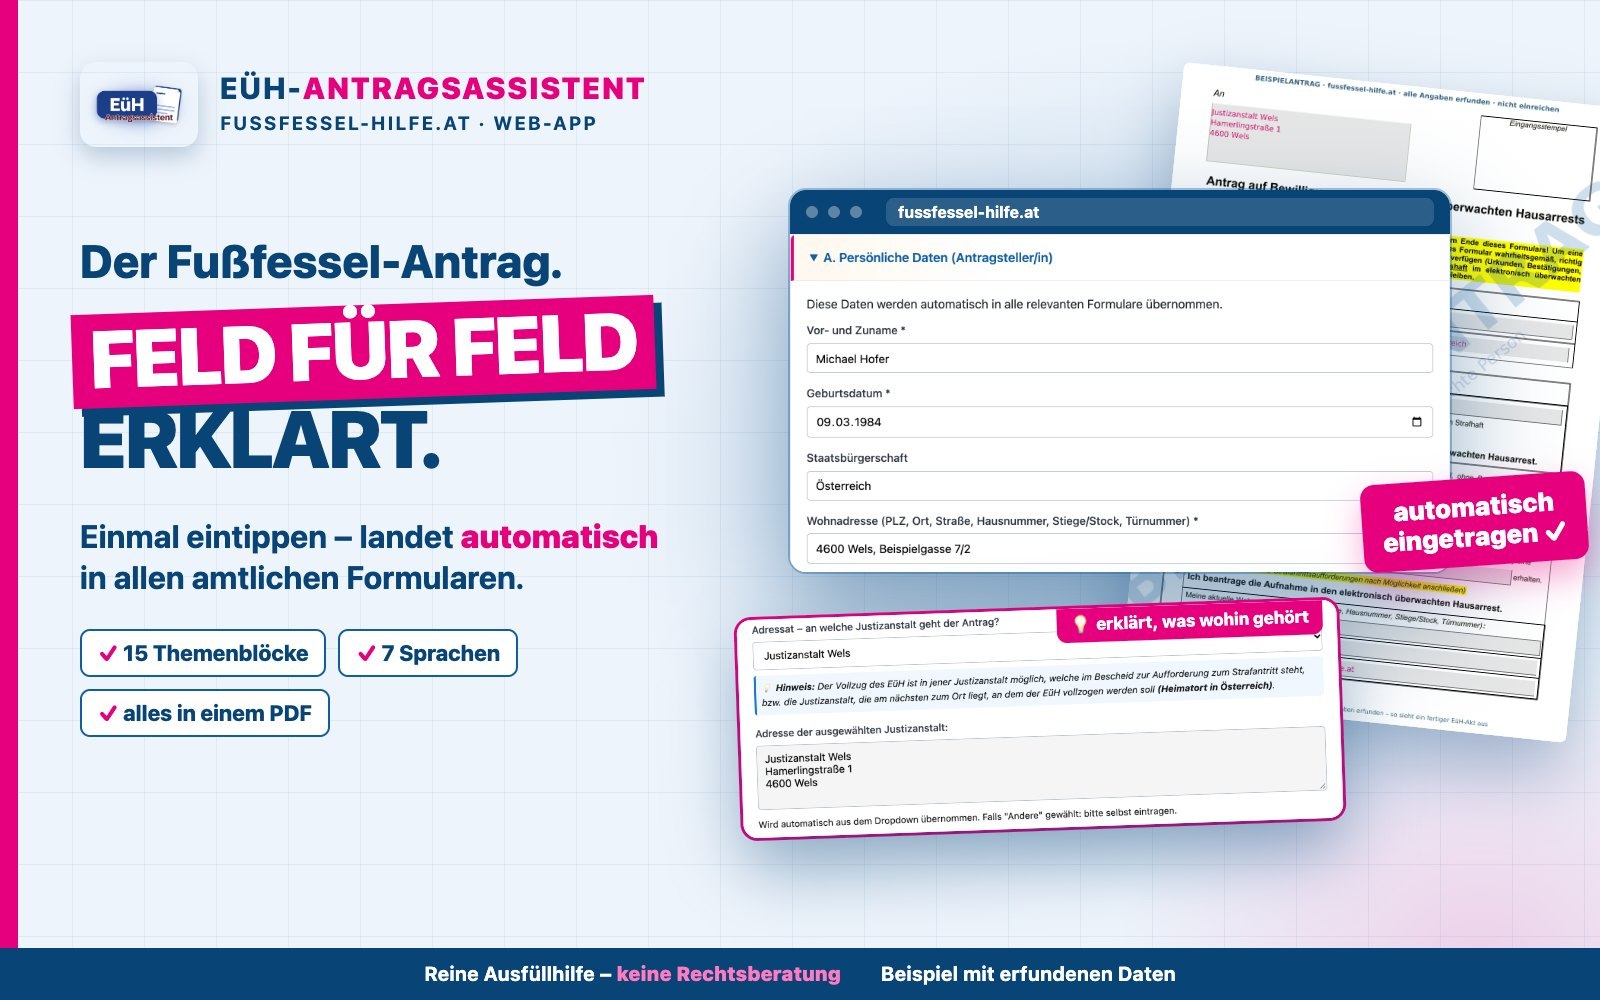
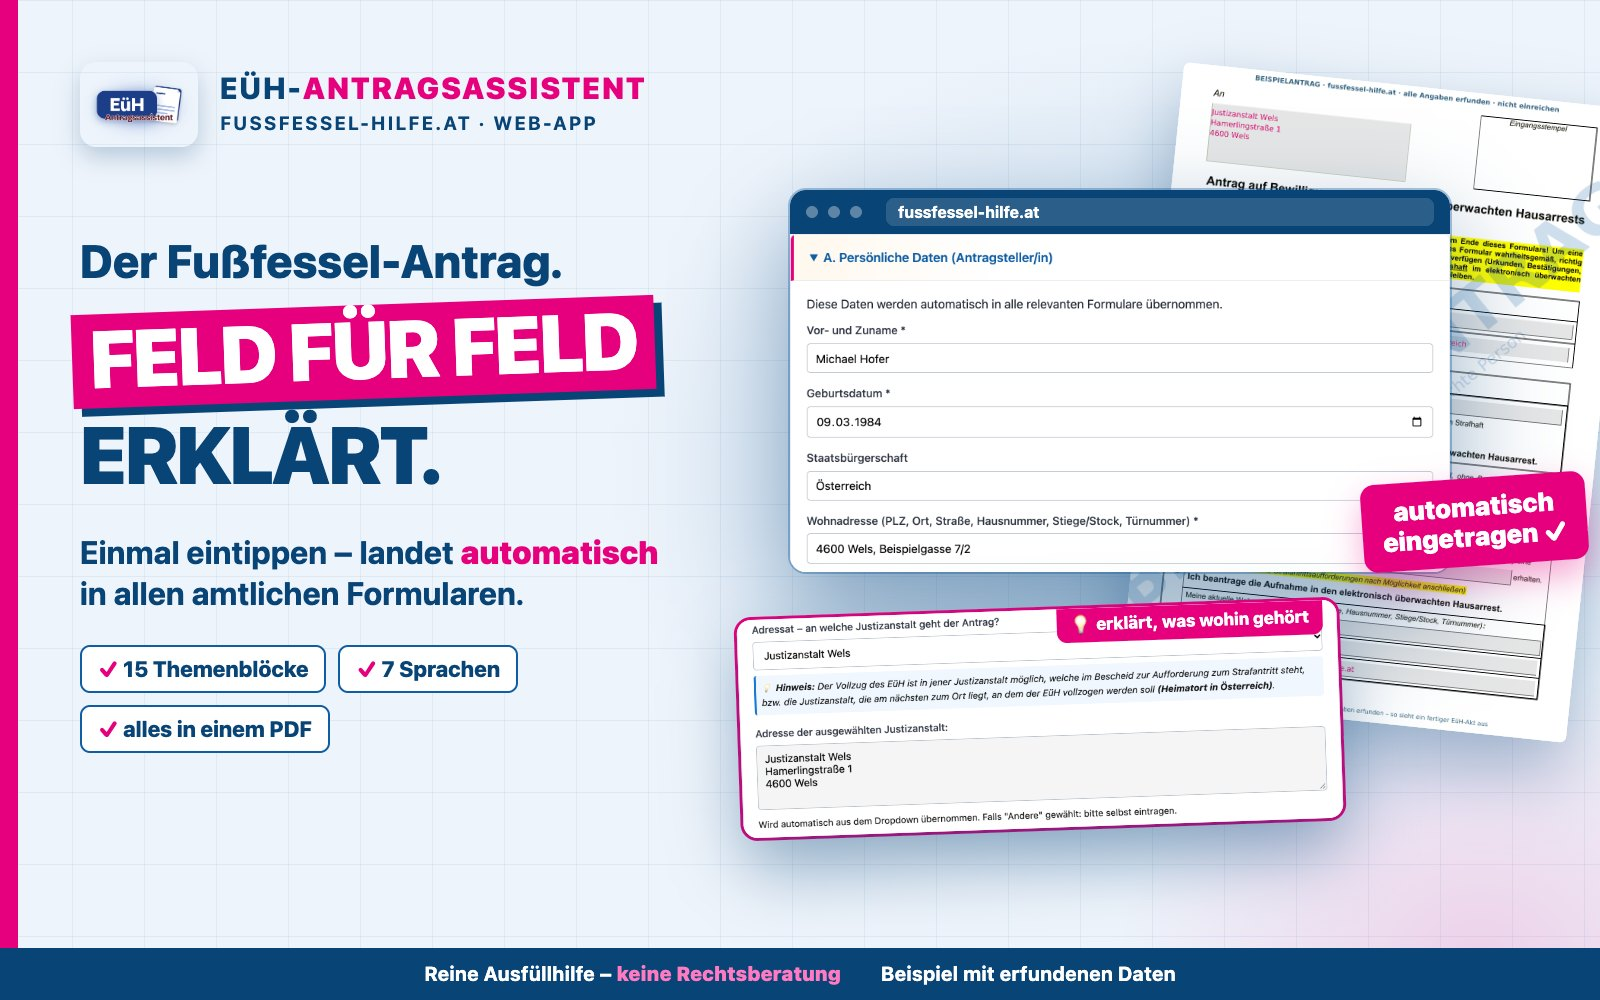
EÜH-Vorschaubild: Ä in „ERKLÄRT“ wieder sichtbar (Abstand unter dem rosa Balken)

Changed region(s): [[0.0312, 0.527, 0.4375, 0.744], [0.0312, 0.403, 0.2812, 0.496]]

diff --git a/programme/eueh/index.html b/programme/eueh/index.html
@@ -8,7 +8,7 @@
 <link rel="canonical" href="https://robschman.at/programme/eueh/">
 <meta property="og:title" content="EÜH-Antragsassistent – robschman programming">
 <meta property="og:description" content="Der Fußfessel-Antrag. Feld für Feld erklärt.">
-<meta property="og:image" content="https://robschman.at/assets/programme/eueh-bild.jpg">
+<meta property="og:image" content="https://robschman.at/assets/programme/eueh-bild.jpg?v=20261022">
 <meta property="og:url" content="https://robschman.at/programme/eueh/">
 <meta name="theme-color" content="#EEF4FB">
 <link rel="icon" href="icon.png" type="image/png">
@@ -154,8 +154,8 @@
       </div>
       <p class="achtung">Reine Ausfüllhilfe – <b>keine Rechtsberatung</b>. Privates Angebot, keine Behörde.</p>
     </div>
-    <button type="button" class="hook" data-gross="../../assets/programme/eueh-bild.jpg" data-text="EÜH-Antragsassistent: ausgefüllte persönliche Daten, Auswahl der Justizanstalt und das amtliche Formular" aria-label="Bild groß ansehen" style="padding:0;cursor:zoom-in;background:none">
-      <img src="../../assets/programme/eueh-bild.jpg" alt="EÜH-Antragsassistent: ausgefüllte persönliche Daten eines erfundenen Testfalls, die Auswahl der Justizanstalt und dahinter das amtliche Formular" width="1600" height="1000">
+    <button type="button" class="hook" data-gross="../../assets/programme/eueh-bild.jpg?v=20261022" data-text="EÜH-Antragsassistent: ausgefüllte persönliche Daten, Auswahl der Justizanstalt und das amtliche Formular" aria-label="Bild groß ansehen" style="padding:0;cursor:zoom-in;background:none">
+      <img src="../../assets/programme/eueh-bild.jpg?v=20261022" alt="EÜH-Antragsassistent: ausgefüllte persönliche Daten eines erfundenen Testfalls, die Auswahl der Justizanstalt und dahinter das amtliche Formular" width="1600" height="1000">
     </button>
   </div>
 </header>

diff --git a/js/script.js b/js/script.js
@@ -90,7 +90,7 @@ const PROGRAMME = [
     status: 'online',
     farbe: '#7C9CFF',
     icon: 'assets/programme/eueh.png',
-    bild: 'assets/programme/eueh-bild.jpg',
+    bild: 'assets/programme/eueh-bild.jpg?v=20261022',
     form: 'quer', hell: false,
     alt: 'EÜH-Antragsassistent: ausgefüllte persönliche Daten eines erfundenen Testfalls, die Auswahl der '
        + 'Justizanstalt mit Hinweis und dahinter das amtliche Formular, Schriftzug „Feld für Feld erklärt“',

diff --git a/index.html b/index.html
@@ -870,7 +870,7 @@
 <!-- Meldung „Adresse kopiert" für Screenreader (für das Auge steht sie am Button) -->
 <p id="kopier-meldung" class="u-nur-vorlesen" role="status" aria-live="polite"></p>
 
-<script src="js/script.js?v=20261022a"></script>
+<script src="js/script.js?v=20261022b"></script>
 
 <!-- =====================================================================
      BESUCHERZAEHLER - Cloudflare Web Analytics
